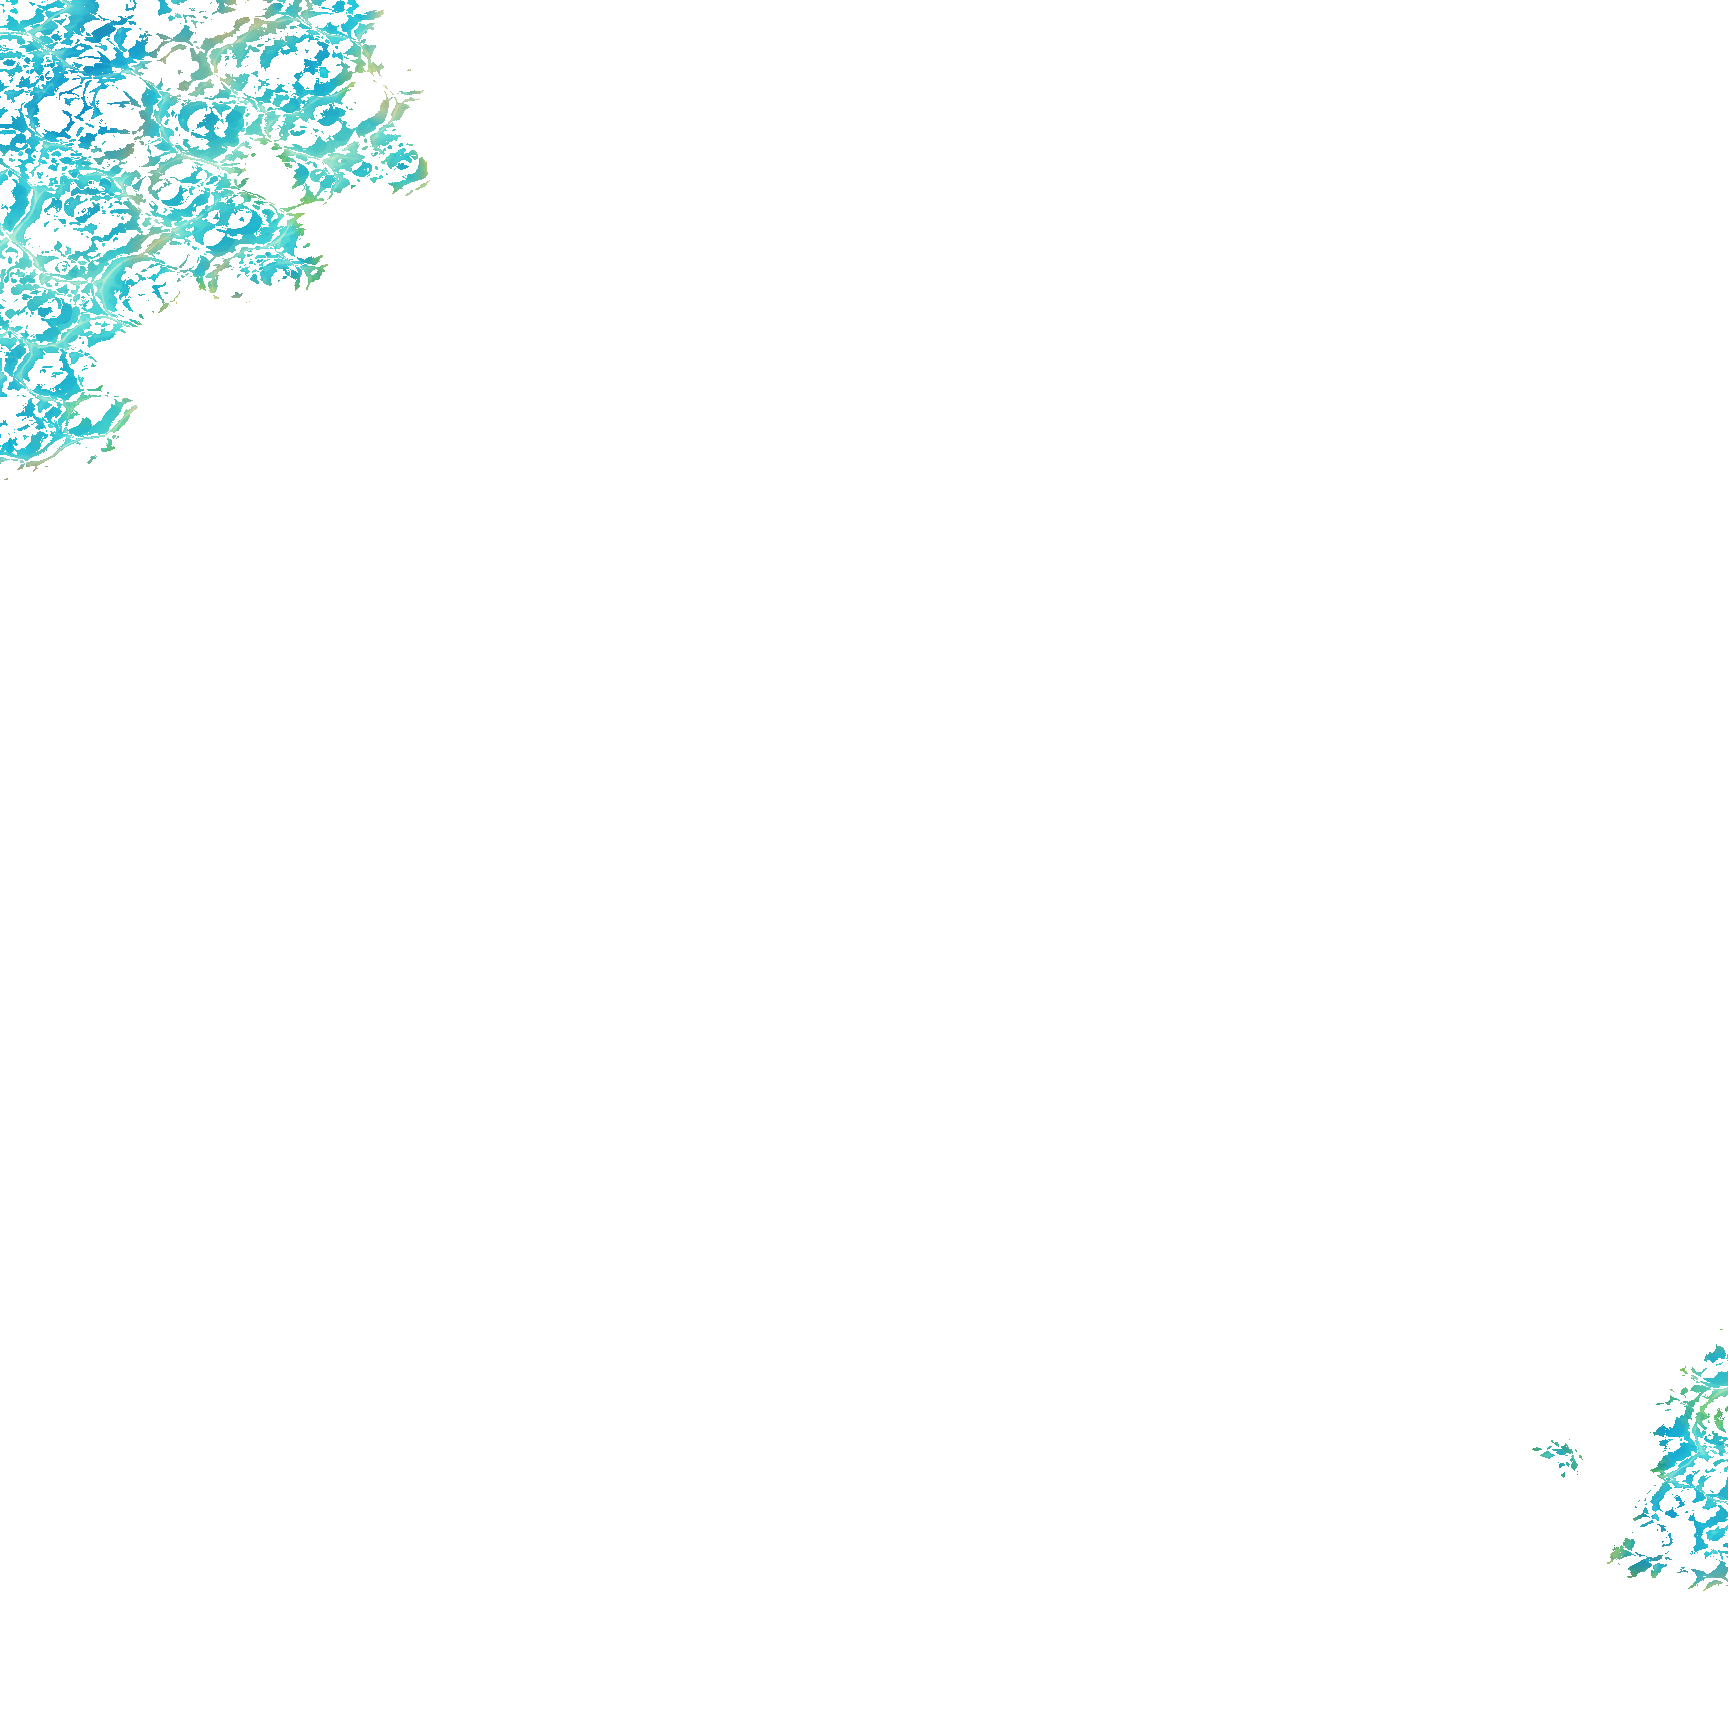
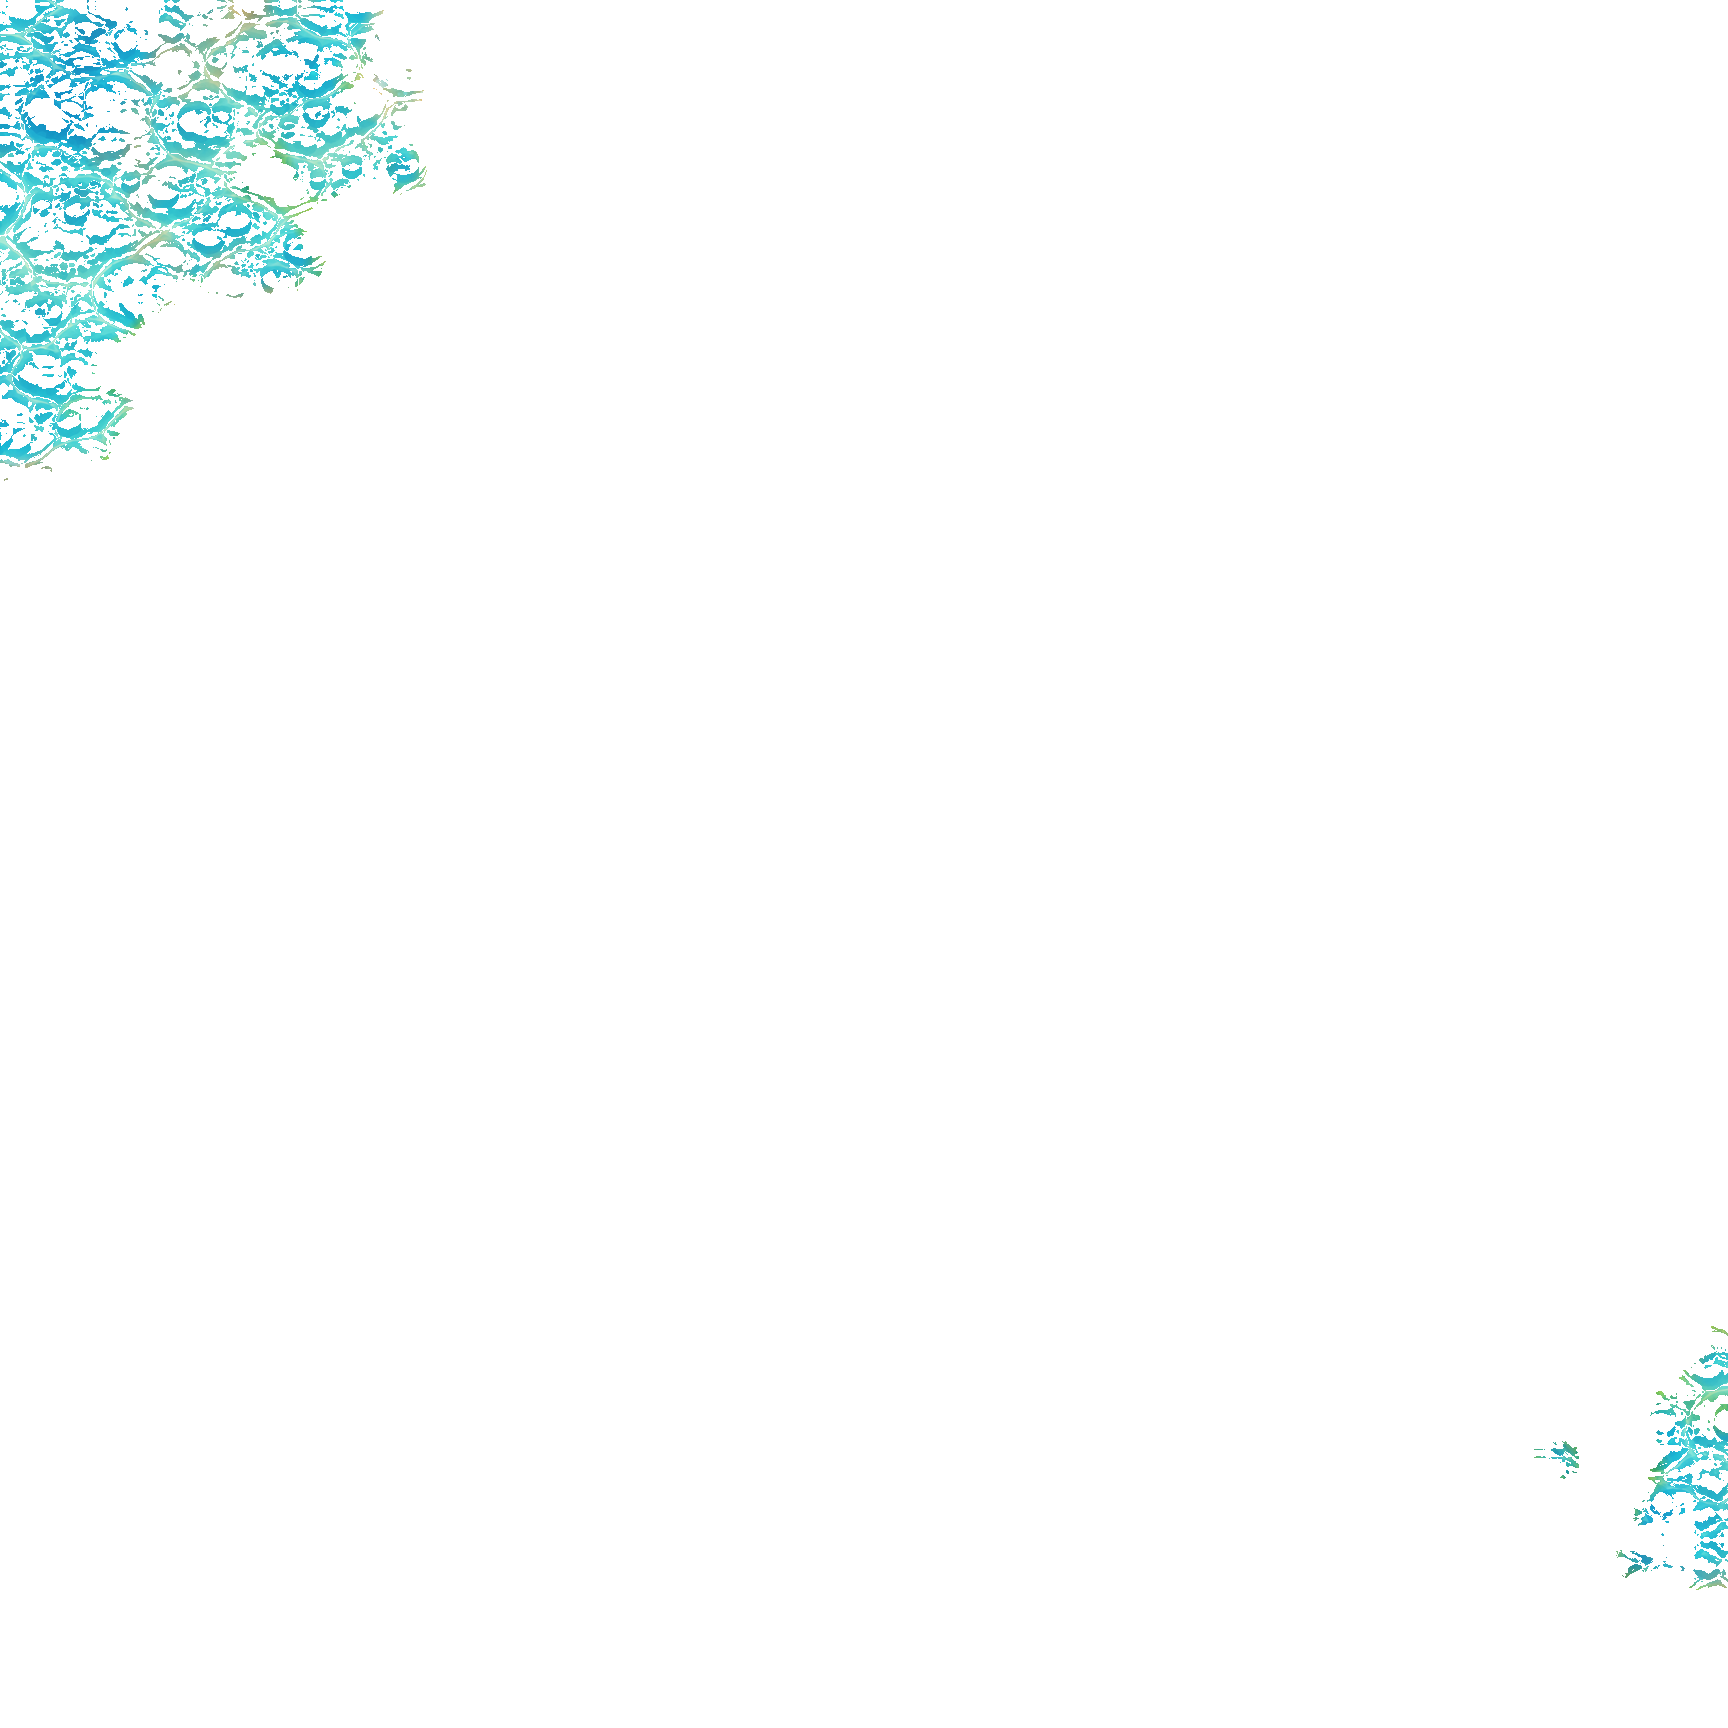
Awans na poziom coś daje, pętla wody się domyka, chorągiewka obok głowy
POZIOMY. Rzecz poważniejsza, niż wyglądała ze zgłoszenia: poziom był SAMĄ
liczbą w panelu i nie dawał absolutnie niczego — `statystyki` doliczały
wyłącznie artefakty. Doświadczenie było licznikiem bez znaczenia, a to jedyna
nagroda za wygraną bitwę poza tym, co po niej zostaje na mapie.

Awans daje teraz na przemian atak i obronę, a co trzeci dodatkowo zapas ruchu.
W Heroes 3 przydział jest losowany z wag klasy bohatera, ale losowa nagroda,
której nie da się przewidzieć, uczy tylko tego, że nagrody są losowe.

Widać to w dwóch miejscach: panel pokazuje „X/Y do awansu" zamiast samego
numeru, a w chwili awansu wyskakuje komunikat z tym, co przybyło. Liczba, która
po cichu rośnie, nie jest nagrodą — nagrodą jest wiedza, o ile bohater urósł.

WODA. Pętla musi się DOMYKAĆ. Przesunięcie szło wciąż w tę samą stronę —
0, 5, 10, 15 — i po czwartej klatce wracało skokiem o piętnaście pikseli do
zera. Stąd wrażenie trzech klatek płynięcia i szarpnięcia: szarpnięcie było
trzy razy większe od każdego kroku. Punkty leżą teraz na rombie, każdy krok ma
tę samą długość, także ten z ostatniej klatki do pierwszej.

CHORĄGIEWKA. Domyślne położenie wypadało dokładnie na wysokości twarzy sprite'a
i wyglądało, jakby bohater miał wetknięty maszt w oko. Przesunięta obok głowy.

Claude-Session: https://claude.ai/code/session_01MdkFzTpsFVUTVVBqrPCgQT

Changed region(s): [[0.0, 0.0, 0.25, 0.2812], [0.9375, 0.7812, 1.0, 0.9062]]

diff --git a/src/scenes/AdventureScene.ts b/src/scenes/AdventureScene.ts
@@ -12,7 +12,9 @@ import {
   obiektNa,
   odslon,
   odwiedz,
+  bonusPoziomu,
   poziom,
+  postepPoziomu,
   strzezoneProzez,
   statystyki,
   trasa,
@@ -906,7 +908,10 @@ export class AdventureScene extends Phaser.Scene {
     this.bohaterSprite = this.add.sprite(0, KAFEL * 0.4, 'bohater', 0).setOrigin(0.5, 1);
     this.bohaterSprite.setScale((KAFEL * 1.15) / this.bohaterSprite.height);
     this.bohaterObj.add(this.bohaterSprite);
-    this.bohaterObj.add(this.chorag(C.ally));
+    // Chorągiewka OBOK głowy, nie na niej. Domyślne położenie `chorag`
+    // wypadało dokładnie na wysokości twarzy sprite'a i wyglądało, jakby
+    // bohater miał wetknięty maszt w oko.
+    this.bohaterObj.add(this.chorag(C.ally).setPosition(KAFEL * 0.26, -KAFEL * 0.36));
     this.swiat.add(this.bohaterObj);
   }
 
@@ -1182,8 +1187,12 @@ export class AdventureScene extends Phaser.Scene {
     this.statTeksty[0].setText(String(st.atak));
     this.statTeksty[1].setText(String(st.obrona));
     this.ruchTekst.setText(String(Math.round(b.ruch)));
+    // Sam numer poziomu nie mówił nic: ani tego, że awans nadchodzi, ani jak
+    // blisko jest, ani co da. Licznik do awansu robi z doświadczenia widoczny
+    // pasek postępu, a co awans daje — mówi komunikat w chwili awansu.
+    const p = postepPoziomu(b.doswiadczenie);
     this.poziomTekst.setText(
-      `poziom ${poziom(b.doswiadczenie)}` +
+      `poziom ${p.poziom}  ·  ${p.wPoziomie}/${p.doAwansu} do awansu` +
         (b.artefakty.length ? `  ·  artefakty: ${b.artefakty.length}` : '')
     );
     b.armia.forEach((od, i) => {
@@ -1698,7 +1707,23 @@ export class AdventureScene extends Phaser.Scene {
       } else if (o) {
         o.zebrany = true;
       }
+      const poziomPrzed = poziom(this.stan.bohater.doswiadczenie);
       this.stan.bohater.doswiadczenie += 80;
+      const poziomPo = poziom(this.stan.bohater.doswiadczenie);
+      if (poziomPo > poziomPrzed) {
+        // Awans musi być WIDOCZNY i musi mówić, co dał. Liczba w panelu, która
+        // po cichu rośnie, nie jest nagrodą — nagrodą jest wiedza, że bohater
+        // stał się silniejszy i o ile.
+        const przed = bonusPoziomu(poziomPrzed);
+        const po = bonusPoziomu(poziomPo);
+        const zyski: string[] = [];
+        if (po.atak > przed.atak) zyski.push(`+${po.atak - przed.atak} atak`);
+        if (po.obrona > przed.obrona) zyski.push(`+${po.obrona - przed.obrona} obrona`);
+        if (po.ruch > przed.ruch) zyski.push(`+${po.ruch - przed.ruch} ruchu`);
+        this.time.delayedCall(2100, () =>
+          this.napisUlotny(`Awans na poziom ${poziomPo}!\n${zyski.join(', ')}`)
+        );
+      }
       this.time.delayedCall(900, () =>
         this.napisUlotny(
           o?.rodzaj === 'zamek' ? `${o.nazwa} jest twoja!\n+80 doświadczenia` : 'Zwycięstwo!\n+80 doświadczenia'

diff --git a/src/data/mapa.ts b/src/data/mapa.ts
@@ -197,10 +197,52 @@ export interface Bohater {
  * niczego — dodatki zawsze liczą się z tego, co bohater aktualnie nosi, więc
  * nie da się ich policzyć dwa razy.
  */
+/**
+ * Co daje awans na poziom.
+ *
+ * Poziomy istniały wcześniej jako sama liczba w panelu i NIE DAWAŁY NICZEGO:
+ * `statystyki` doliczały wyłącznie artefakty. Doświadczenie było więc licznikiem
+ * bez znaczenia — a to jedyna nagroda za wygraną bitwę poza tym, co po niej
+ * zostaje na mapie.
+ *
+ * Zasada jest prosta na tyle, żeby dziecko ją zauważyło samo: co poziom
+ * na przemian atak i obrona, a co trzeci dodatkowo zapas ruchu. W Heroes 3
+ * przydział jest losowany z wag klasy bohatera, ale losowa nagroda, której
+ * nie da się przewidzieć, uczy tylko tego, że nagrody są losowe.
+ */
+export function bonusPoziomu(p: number) {
+  const awansow = Math.max(0, p - 1);
+  return {
+    atak: Math.ceil(awansow / 2),
+    obrona: Math.floor(awansow / 2),
+    ruch: Math.floor(awansow / 3) * 100,
+  };
+}
+
+/**
+ * Ile doświadczenia zebrano w bieżącym poziomie i ile trzeba na następny.
+ * Panel pokazuje to jako „X/Y do awansu" — bez tego nie widać ani tego, że
+ * awans w ogóle nadchodzi, ani jak blisko jest.
+ */
+export function postepPoziomu(doswiadczenie: number) {
+  let p = 1;
+  let prog = 100;
+  let dolny = 0;
+  let gorny = prog;
+  while (doswiadczenie >= gorny) {
+    p++;
+    dolny = gorny;
+    prog = Math.round(prog * 1.4);
+    gorny += prog;
+  }
+  return { poziom: p, wPoziomie: doswiadczenie - dolny, doAwansu: gorny - dolny };
+}
+
 export function statystyki(b: Bohater) {
-  let atak = b.atak;
-  let obrona = b.obrona;
-  let ruchMax = b.ruchMax;
+  const bonus = bonusPoziomu(poziom(b.doswiadczenie));
+  let atak = b.atak + bonus.atak;
+  let obrona = b.obrona + bonus.obrona;
+  let ruchMax = b.ruchMax + bonus.ruch;
   for (const id of b.artefakty) {
     const a = artefaktPoId(id);
     if (!a) continue;

diff --git a/tools/render_mapa.py b/tools/render_mapa.py
@@ -69,10 +69,17 @@ WARSTWY = [
     ('woda', '~', 0.35, 0.22),
 ]
 
-#: Przesunięcie tekstury wody w kolejnych klatkach, w pikselach. Woda ma
-#: PŁYNĄĆ, a nie migać: kilka pikseli na klatkę czyta się jak leniwy prąd,
-#: kilkanaście — jak przeskok obrazu.
-PRAD = [(0, 0), (5, 3), (10, 6), (15, 9)]
+#: Przesunięcie tekstury wody w kolejnych klatkach, w pikselach.
+#:
+#: Pętla musi się DOMYKAĆ. Poprzednia wersja przesuwała teksturę wciąż w tę
+#: samą stronę — 0, 5, 10, 15 — i po czwartej klatce wracała skokiem o piętnaście
+#: pikseli do zera. Wyglądało to jak trzy klatki płynięcia i szarpnięcie,
+#: bo szarpnięcie było trzy razy większe od każdego kroku.
+#:
+#: Teraz punkty leżą na rombie: każdy krok ma tę samą długość, także ten
+#: z ostatniej klatki do pierwszej. Woda kołysze się w kółko zamiast płynąć
+#: donikąd i pętli nie da się zauważyć.
+PRAD = [(0, 0), (4, 4), (0, 8), (-4, 4)]
 
 
 def wczytaj_rysunek():
